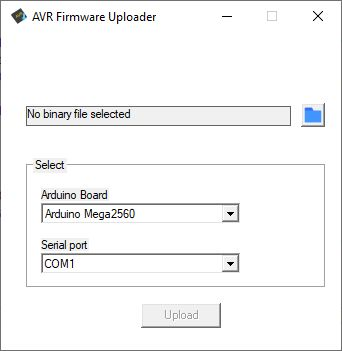
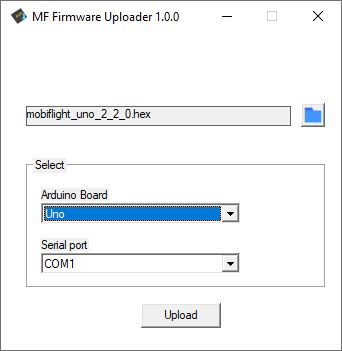
new program name

diff --git a/include/staticConfig.h b/include/staticConfig.h
@@ -38,6 +38,6 @@
 
 #define configFileHeader	"#AVRBINARYUPLOADCONFIGFILE\nBIN="
 
-#define PRODUCT_NAME	"AVR Firmware Uploader"
+#define PRODUCT_NAME	"MF Firmware Uploader 1.0.0"
 
 
